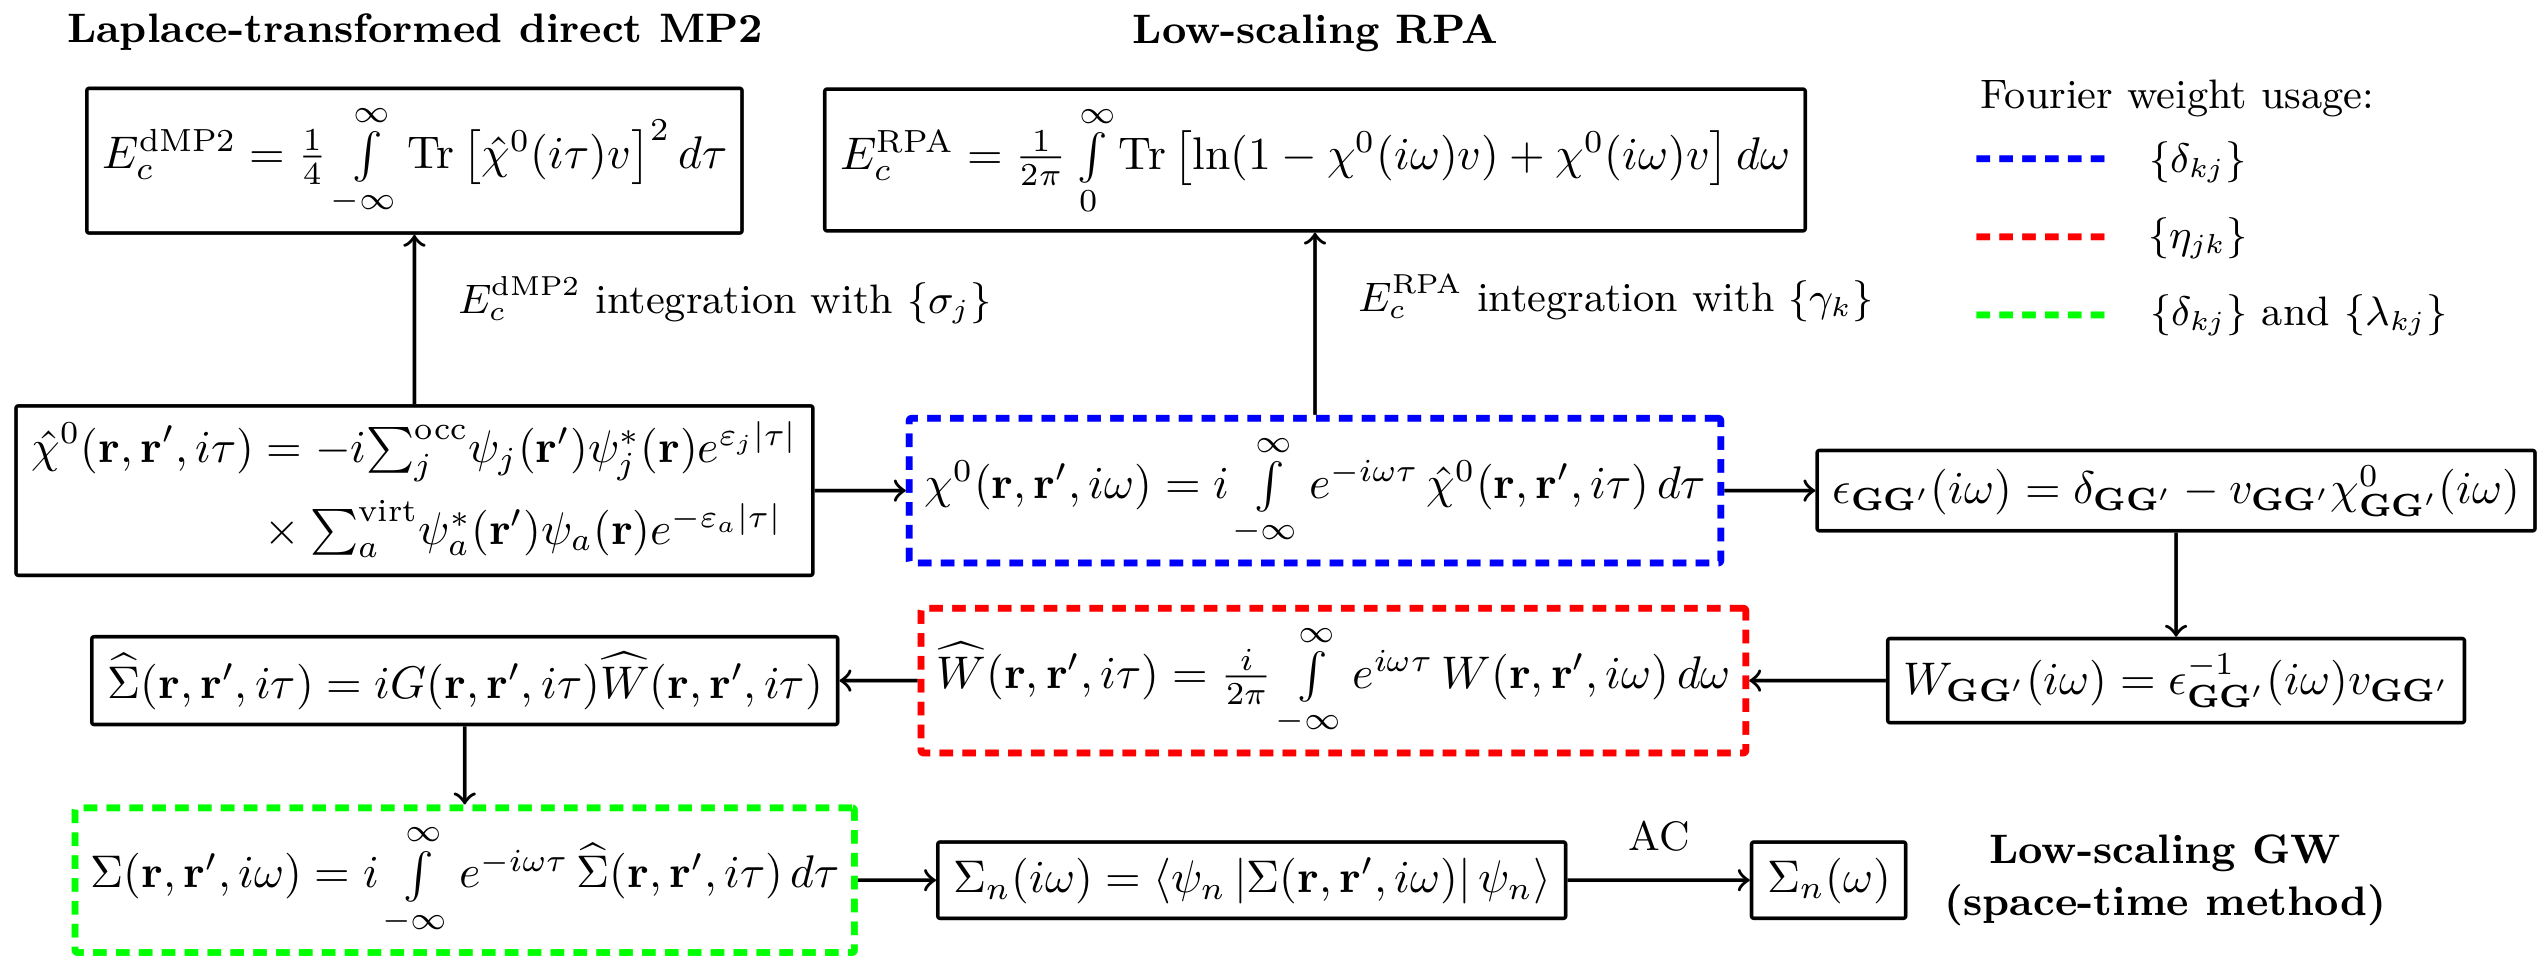
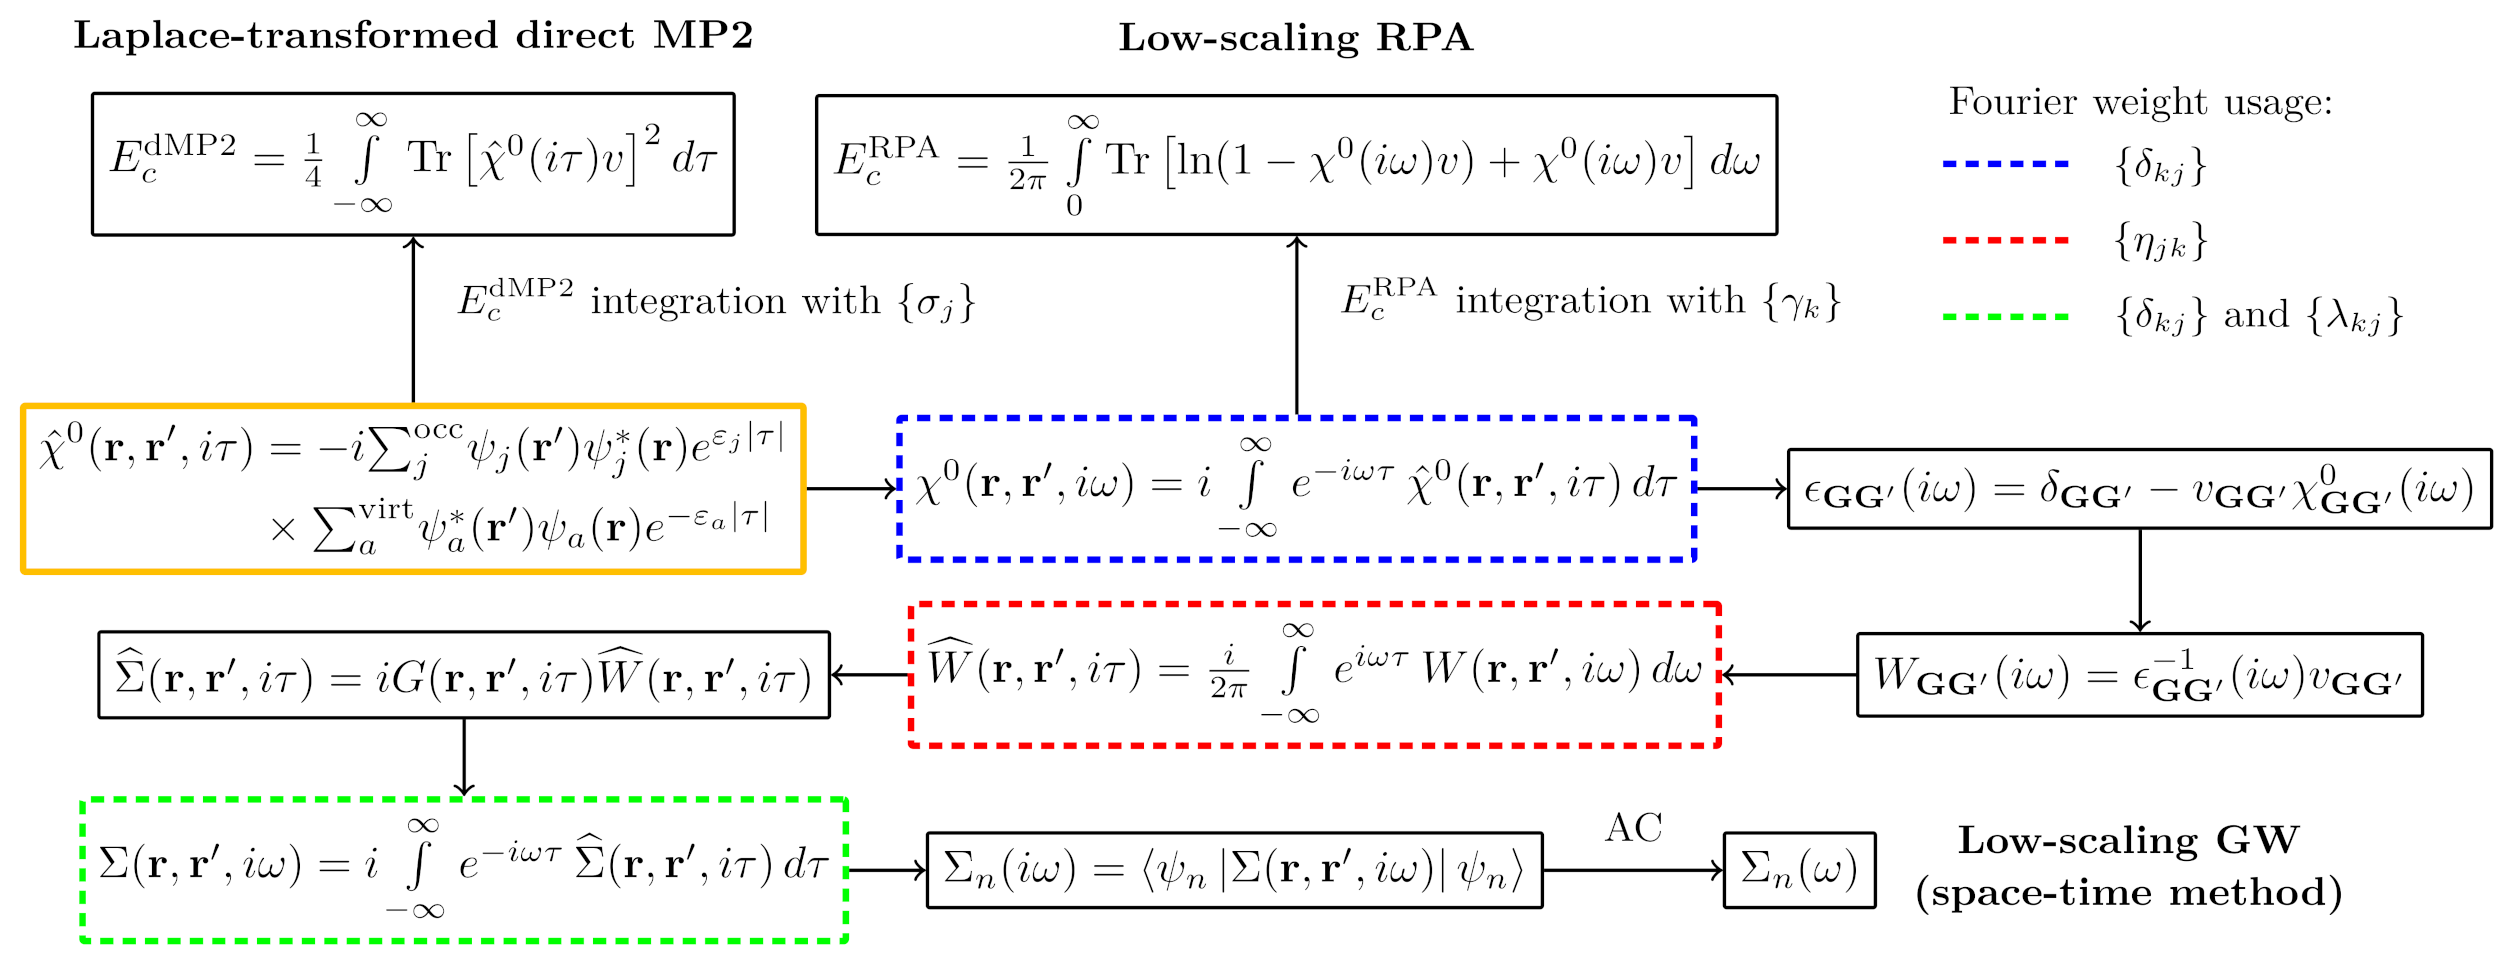
shorten the beginning of the math part a bit

diff --git a/JOSS/paper.md b/JOSS/paper.md
@@ -77,23 +77,13 @@ While not being the main target of the library, the minimax time grids can also 
 
 # Mathematical framework
 
-The single-particle Green's function $G$ and the non-interacting susceptibility $\chi^0$ are the starting point for a set of many-body perturbation theory (MBPT) methods. In canonical implementations, the non-interacting susceptibility is often expressed in the Adler-Wiser form [@Adler1962;@Wiser1963]
+The single-particle Green's function $G$ and the non-interacting susceptibility $\chi^0$ are the starting point for a set of many-body perturbation theory (MBPT) methods. In canonical implementations, the non-interacting susceptibility $\chi^0(i\omega)$ is often expressed in the Adler-Wiser form [@Adler1962;@Wiser1963], where the sums over occupied (index $j$) and unoccupied (index $a$) single-particle states $\psi$ are coupled via their corresponding energies $\varepsilon$.
 
 ![Sketch of the methods supported by GX-TimeFrequency which start from $\hat{\chi}^0(i\tau)$. In addition to the discrete time and frequency grids $\{\tau_{j}\}$ and $\{\omega_{k}\}$, the library provides the corresponding weights $\{\sigma_{j}\}$ and $\{\gamma_{k}\}$ for the integration of the correlation energy $E_c$ as well as the Fourier weights $\delta_{kj}$, $\eta_{jk}$ and $\lambda_{kj}$ defined in Eqs. \eqref{ct_st_even}-\eqref{st_odd_t_to_w}. The bare and screened Coulomb interactions are indicated by $v(\mathbf{r},\mathbf{r}')=1/|\mathbf{r}-\mathbf{r}|'$ and $W(i\omega)$, respectively. $\epsilon(i\omega)$ is the dynamical dielectric function, $\Sigma$ the \textit{GW} self-energy, and AC stands for analytic continuation.\label{fig:flowchart}](flowchart.png)
 
-\begin{equation}\label{susceptibility}
-\chi^0( \mathbf{r}, \mathbf{r'}, i\omega ) = \sum_j^\text{occ}\sum_a^\text{unocc} \psi^*_a(\mathbf{r'})\psi_j(\mathbf{r'})\psi^*_j(\mathbf{r})\psi_a(\mathbf{r})\frac{2(\varepsilon_j - \varepsilon_a)}{\omega^2 + (\varepsilon_j - \varepsilon_a)^2},
-\end{equation}
+The Adler-Wiser expression of $\chi^0(i\omega)$ can be transformed into the imaginary time domain, $\hat{\chi}^0(\mathbf{r},\mathbf{r'},i\tau)=-i G(\mathbf{r},\mathbf{r'},i\tau)G(\mathbf{r'},\mathbf{r},-i\tau)$, yielding the equation in the yellow box in Figure \ref{fig:flowchart}, where the two sums are separated leading to a favorable $\mathcal{O}(N^3)$ scaling.
 
-where the indices $j$ and $a$ refer to occupied and unoccupied single-particle states $\psi$ with energies $\varepsilon$. Transforming Eq. \eqref{susceptibility} into the imaginary time domain
-
-\begin{eqnarray}\label{susceptibility_low}
-    \hat{\chi}^0( \bold{r}, \bold{r'}, i\tau ) &=&-i\sum_j^\text{occ}\psi_j(\bold{r'})\psi^*_j(\bold{r})e^{\varepsilon_j|\tau|}\sum_a^\text{unocc}\psi^*_a(\bold{r'})\psi_a(\bold{r})e^{-\varepsilon_a|\tau|} \\
-    &=&-i G(\mathbf{r},\mathbf{r'},i\tau)G(\mathbf{r'},\mathbf{r},-i\tau)
-\end{eqnarray}
-separates the two summations that can also be written as product of two Green's functions and leads to a favorable $\mathcal{O}(N^3)$ scaling.
-
-Equation \eqref{susceptibility_low} is the starting point for LT-dMP2 and low-scaling RPA and \textit{GW}, as summarized in Figure \ref{fig:flowchart}. The low-scaling \textit{GW} procedure shown in Figure \ref{fig:flowchart} is known as the space-time method and is given here in its original formulation for plane-wave codes [@rojas1995space].
+The polarizability $\hat{\chi}^0(i\tau)$ is the starting point for LT-dMP2 and low-scaling RPA and \textit{GW}, as summarized in Figure \ref{fig:flowchart}. The low-scaling \textit{GW} procedure shown in Figure \ref{fig:flowchart} is known as the space-time method and is given here in its original formulation for plane-wave codes [@rojas1995space].
 
 The time-frequency integrals in Figure \ref{fig:flowchart} are performed numerically. All three methods in Figure \ref{fig:flowchart} require a discrete time grid $\{\tau_j\}_{j=1}^n$, where $n$ is the number of grid points. RPA and \textit{GW} additionally need the discrete frequency grid $\{\omega_{k}\}_{k=1}^n$. Since $\hat{\chi}^0( \mathbf{r}, \mathbf{r'}, i\tau )$ is sharply peaked around the origin and then decays slowly, homogeneous time and frequency grids are inefficient. For this reason, non-uniform grids like Gauss-Legendre [@rieger1999gw], modified Gauss-Legendre [@ren2012resolution] and the here presented minimax [@kaltak2014low] grids are used. The minimax grids include also integration weights for the computation of the correlation energies. For the calculation of the LT-dMP2 correlation energy $E_c^{\text{dMP2}}$ [@Takatsuka2008;@kaltak2014low], a time quadrature is performed, for which our library provides the integration weights $\{\sigma_j\}_{j=1}^n$. Similarly, the RPA correlation energy $E_c^{\text{RPA}}$ [@kaltak2014low;@delben2015enabling] is computed from a frequency quadrature using the integration weights $\{\gamma_k\}_{k=1}^n$.
 
